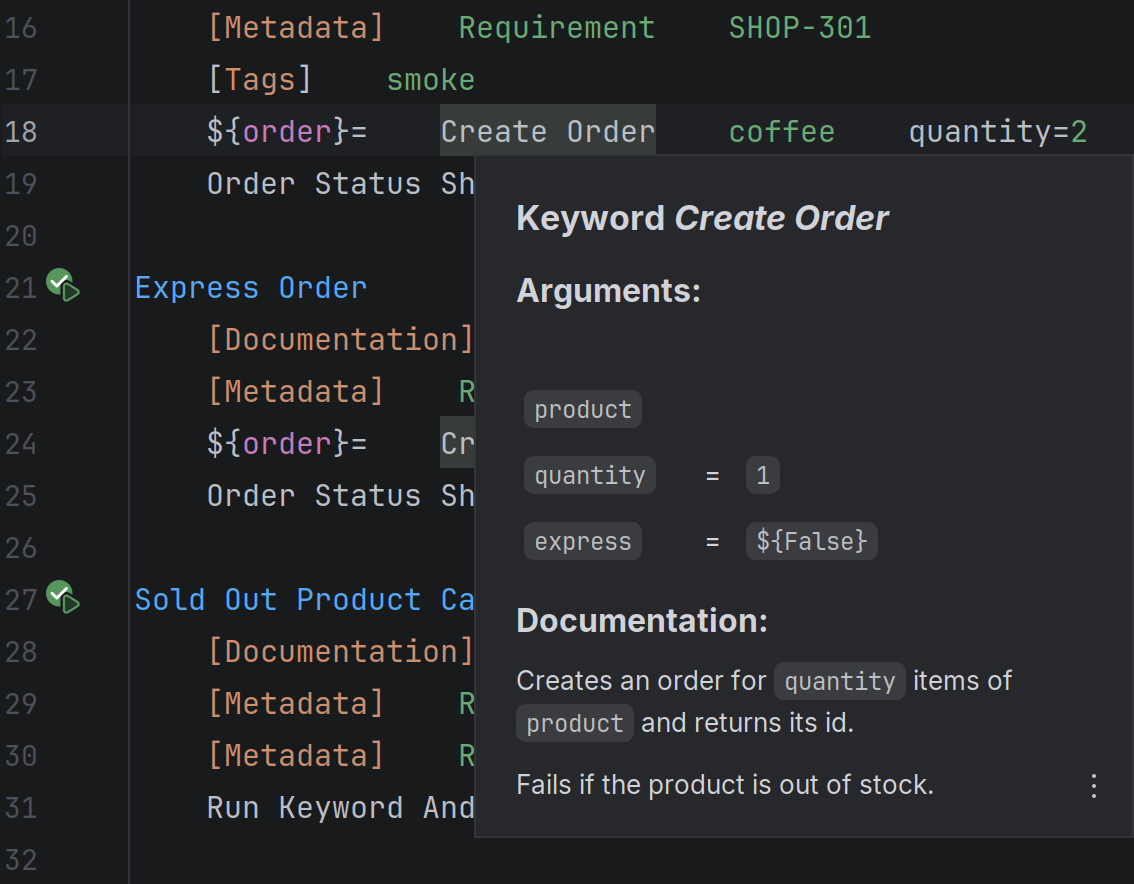
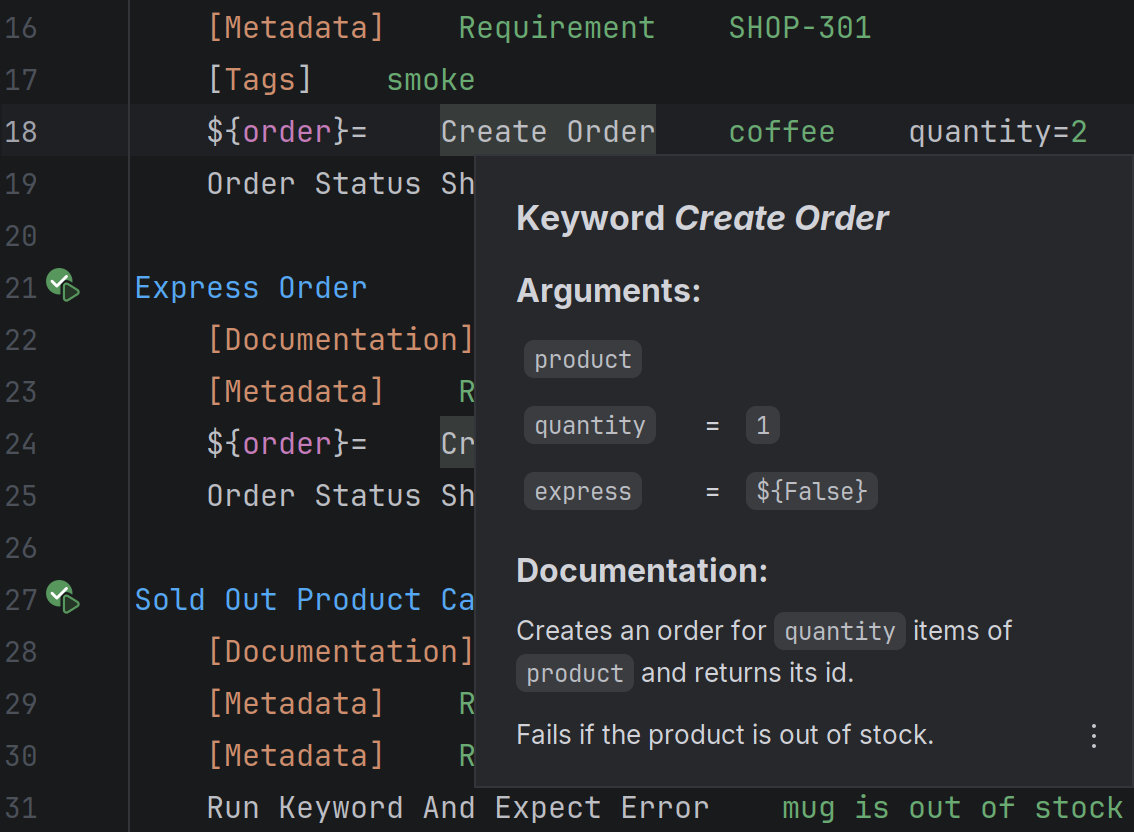
fix(intellij): remove the gap above tables in the documentation
Quick Documentation, the hover and the Ctrl+hover hint left a large gap between
a heading and the table below it: between "Arguments:" and the arguments of a
keyword, and between the name of a library or resource file and its version and
scope. The pictures of the documentation in the PyCharm guide and on the home
page show it without the gap.

diff --git a/intellij-client/src/main/kotlin/dev/robotcode/robotcode4ij/lsp/features/RobotHoverFeature.kt b/intellij-client/src/main/kotlin/dev/robotcode/robotcode4ij/lsp/features/RobotHoverFeature.kt
@@ -4,15 +4,22 @@ import com.intellij.psi.PsiFile
 import com.redhat.devtools.lsp4ij.client.features.LSPHoverFeature
 import org.eclipse.lsp4j.MarkupContent
 
+// the header of a table whose cells are all empty; the language server writes one above the arguments of a keyword and
+// above the version and scope of a library or resource file, because a Markdown table needs a header
+private val EMPTY_TABLE_HEADER = Regex("""<thead>\s*<tr>(?:\s*<th[^>]*>\s*</th>)*\s*</tr>\s*</thead>\s*""")
+
 /**
- * Puts the HTML that LSP4IJ converts from the language server's Markdown hover into an `<html>` element.
+ * Adjusts the HTML that LSP4IJ converts from the language server's Markdown hover.
  *
- * LSP4IJ 0.21.0 passes this HTML to the Ctrl+hover hint without that element. The hint then takes it for text and turns
- * every line break into `<br>` (`UIUtil.getHtmlBody`), which leaves a large gap in front of tables and an empty line
- * after each heading and paragraph. Quick Documentation and the hover remove the element again. Remove this class once
- * LSP4IJ adds the element itself.
+ * It removes the header of a table when all of its cells are empty. The documentation shows such a header as a large
+ * gap between a heading such as "Arguments:" and the table.
+ *
+ * It also puts the HTML into an `<html>` element. LSP4IJ 0.21.0 passes this HTML to the Ctrl+hover hint without that
+ * element. The hint then takes it for text and turns every line break into `<br>` (`UIUtil.getHtmlBody`), which leaves
+ * a large gap in front of tables and an empty line after each heading and paragraph. Quick Documentation and the hover
+ * remove the element again. Drop the element once LSP4IJ adds it itself.
  */
 @Suppress("UnstableApiUsage") class RobotHoverFeature : LSPHoverFeature() {
     override fun convertMarkDownToHtml(content: MarkupContent, file: PsiFile): String? =
-        super.convertMarkDownToHtml(content, file)?.let { "<html>$it</html>" }
+        super.convertMarkDownToHtml(content, file)?.let { "<html>${it.replace(EMPTY_TABLE_HEADER, "")}</html>" }
 }

diff --git a/intellij-client/src/test/kotlin/dev/robotcode/robotcode4ij/lsp/features/RobotHoverFeatureTest.kt b/intellij-client/src/test/kotlin/dev/robotcode/robotcode4ij/lsp/features/RobotHoverFeatureTest.kt
@@ -24,6 +24,26 @@ class RobotHoverFeatureTest : BasePlatformTestCase() {
         assertFalse(UIUtil.getHtmlBody(html).contains("<br>"))
     }
 
+    // the documentation shows a header without text as a large gap between the heading and the table
+    fun testAnEmptyTableHeaderIsRemoved() {
+        val markdown = "#### Arguments:\n\n| | | | |\n|:--|:--|:--|:--|\n| `user` | | | |\n"
+
+        val html = contentOf(MarkupKind.MARKDOWN, markdown)!!
+
+        assertFalse(html.contains("<thead>"))
+        assertTrue(html.contains("<code>user</code>"))
+    }
+
+    fun testATableHeaderWithTextStays() {
+        val markdown = "| Name | Default |\n|:--|:--|\n| `user` | |\n"
+
+        val html = contentOf(MarkupKind.MARKDOWN, markdown)!!
+
+        assertTrue(html.contains("<thead>"))
+        assertTrue(html.contains("Name"))
+        assertTrue(html.contains("<code>user</code>"))
+    }
+
     fun testPlainTextStaysAsItIs() {
         assertEquals("first line\nsecond line", contentOf(MarkupKind.PLAINTEXT, "first line\nsecond line"))
     }
